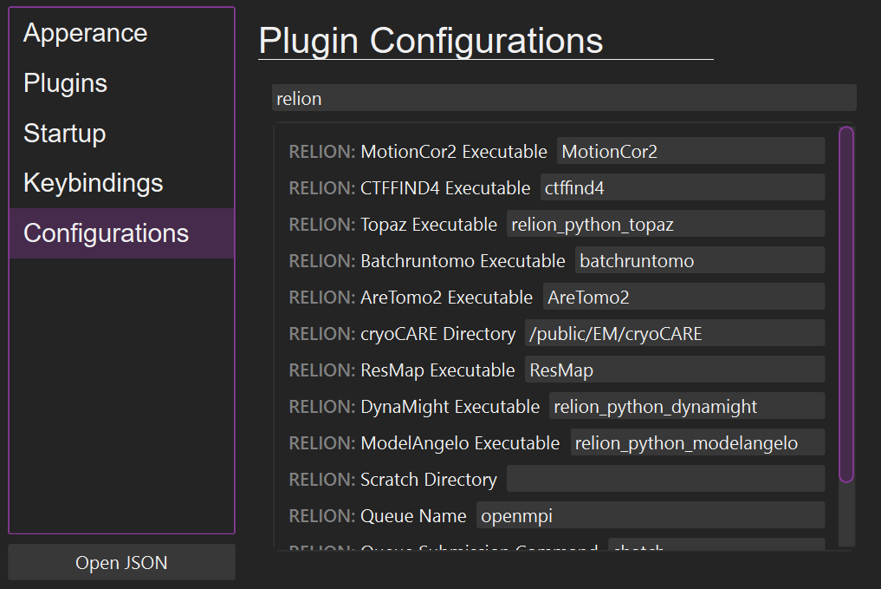
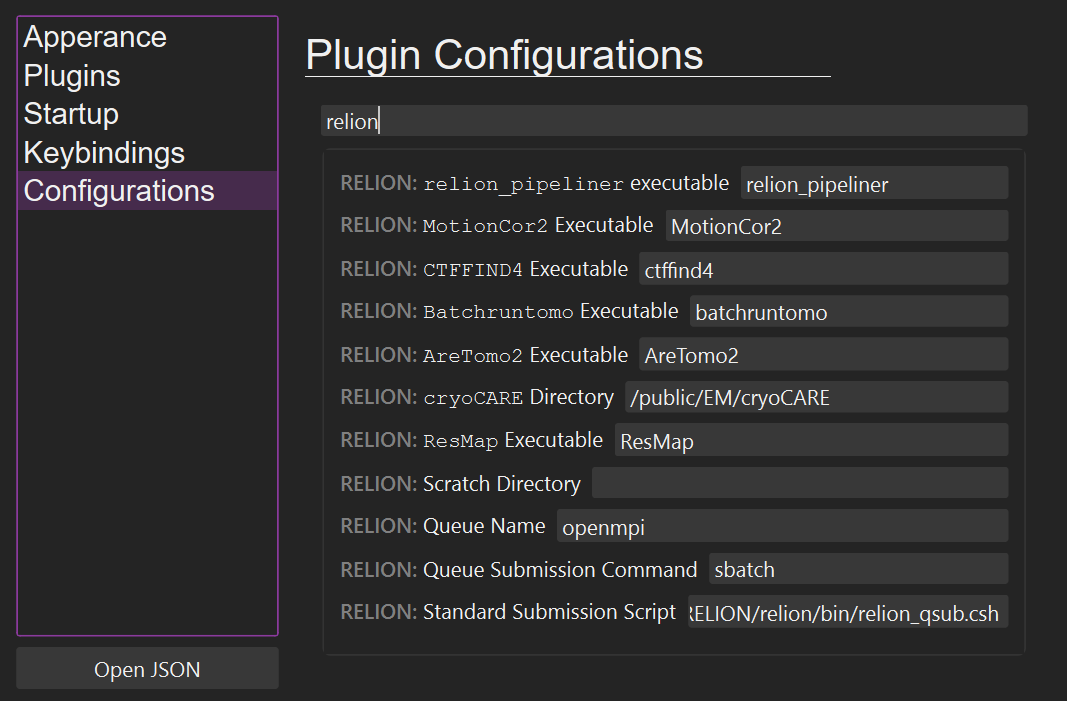
Deployed 7a5d137 with MkDocs version: 1.6.1

diff --git a/getting_started/index.html b/getting_started/index.html
@@ -757,7 +757,7 @@ automatically updated (in reasonable time intervals).</p>
 <p><img alt="" loading="lazy" src="../images/01_job_window.png" width="400px" /></p>
 <p>The top-left corner has useful actions.</p>
 <p>The tool button 1 contains actions that are related to RELION job windows (no matter
-what job it is), such as "Overwrite" and "Mark As Finished".</p>
+what job it is), such as "Overwrite" and "Abort".</p>
 <p>The tool button 2 contains hints for the next actions. For example, in a 2D
 classification job window, you will see "Select Class". These action hints are very
 convenient way to run the next job, as the input parameters will be automatically
@@ -842,13 +842,13 @@ process.</p>
         
         
           
-          <a href="../external_jobs/" class="md-footer__link md-footer__link--next" aria-label="Next: Index">
+          <a href="../external_jobs/" class="md-footer__link md-footer__link--next" aria-label="Next: External Jobs">
             <div class="md-footer__title">
               <span class="md-footer__direction">
                 Next
               </span>
               <div class="md-ellipsis">
-                Index
+                External Jobs
               </div>
             </div>
             <div class="md-footer__button md-icon">

diff --git a/external_jobs/builtin/index.html b/external_jobs/builtin/index.html
@@ -857,7 +857,7 @@ defocus, total motion, and ice thickness value.</p>
       <nav class="md-footer__inner md-grid" aria-label="Footer" >
         
           
-          <a href="../" class="md-footer__link md-footer__link--prev" aria-label="Previous: Index">
+          <a href="../" class="md-footer__link md-footer__link--prev" aria-label="Previous: External Jobs">
             <div class="md-footer__button md-icon">
               
               <svg xmlns="http://www.w3.org/2000/svg" viewBox="0 0 24 24"><path d="M20 11v2H8l5.5 5.5-1.42 1.42L4.16 12l7.92-7.92L13.5 5.5 8 11z"/></svg>
@@ -867,7 +867,7 @@ defocus, total motion, and ice thickness value.</p>
                 Previous
               </span>
               <div class="md-ellipsis">
-                Index
+                External Jobs
               </div>
             </div>
           </a>

diff --git a/external_jobs/index.html b/external_jobs/index.html
@@ -25,7 +25,7 @@
     
     
       
-        <title>Index - himena-relion</title>
+        <title>External Jobs - himena-relion</title>
       
     
     
@@ -116,7 +116,7 @@
         <div class="md-header__topic" data-md-component="header-topic">
           <span class="md-ellipsis">
             
-              Index
+              External Jobs
             
           </span>
         </div>

diff --git a/installation/index.html b/installation/index.html
@@ -660,7 +660,7 @@
 
 <h1 id="installation">Installation</h1>
 <h2 id="1-install-relion">1. Install RELION</h2>
-<p>Currently <code>himena-relion</code> only supports RELION 5.0.x. Please follow the instructions in
+<p>Currently <code>himena-relion</code> only supports RELION 5.x.x. Please follow the instructions in
 the <a href="https://relion.readthedocs.io/en/latest/Installation.html">RELION documentation</a>.</p>
 <h2 id="2-create-a-python-environment">2. Create a Python environment</h2>
 <p>Installation in a Python virtual environment is recommended to avoid conflicts with